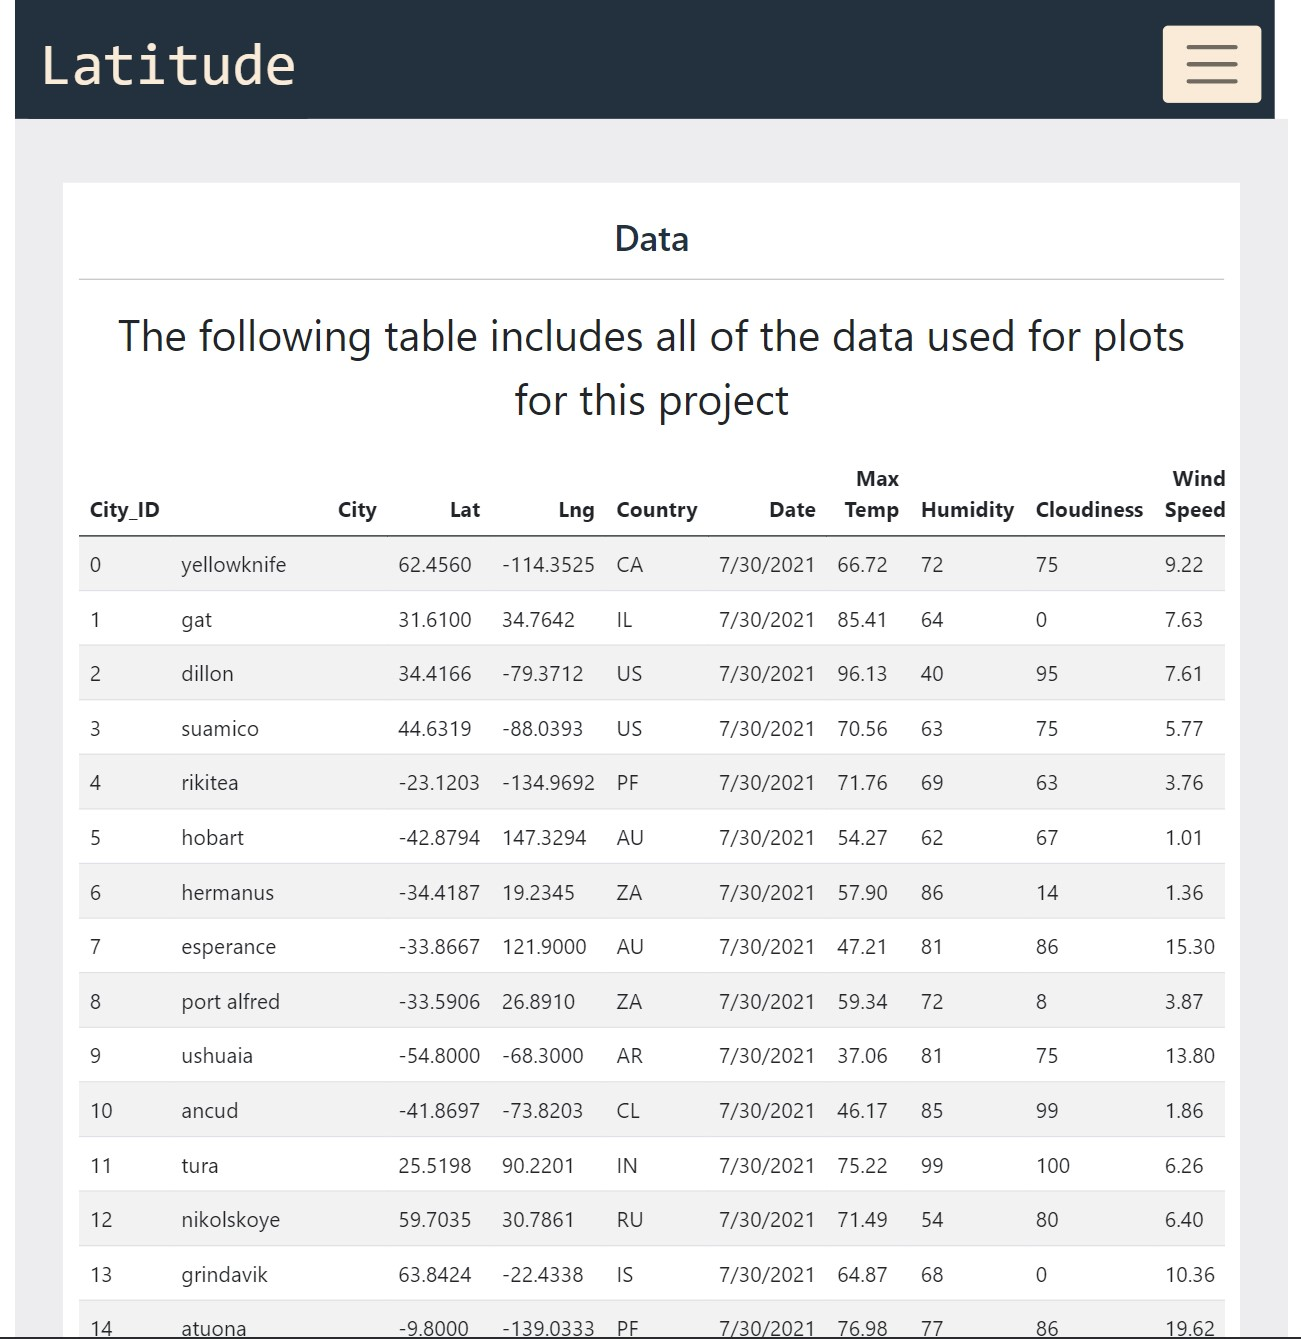
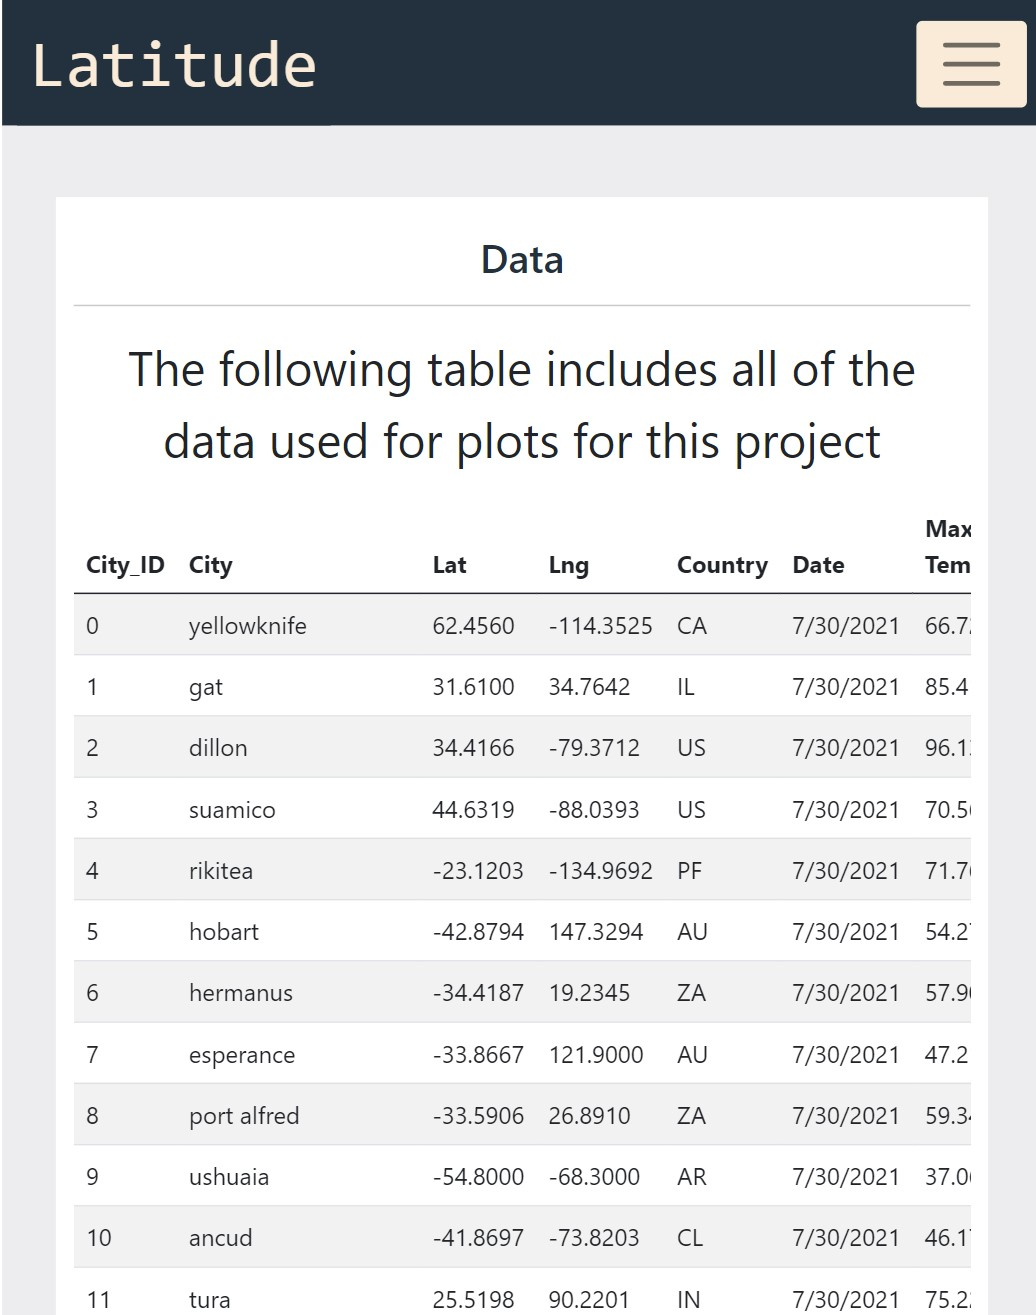
saving readme

diff --git a/WebVisualizations/style.css b/WebVisualizations/style.css
@@ -202,6 +202,12 @@ padding-bottom: 60px;
       font-size: 2rem;
       color: black;
     }
+
+    .navbar_padding{
+      padding-bottom: 0rem;
+      margin-right: 0px;
+    
+    }
   }
 
 @media screen and (min-width: 768px) {    
@@ -250,7 +256,11 @@ padding-bottom: 60px;
       font-size: 2rem;
       color: black;
     }
+    .navbar_padding{
+      padding-bottom: 0rem;
+      margin-right: 0px;
     
+    }
   }
 
 @media (min-width: 992px) {  
@@ -287,6 +297,11 @@ padding-bottom: 60px;
     font-weight:normal;
     font-size: 16px;
   }
+  .navbar_padding{
+    padding-bottom: 0rem;
+    margin-right: 10px;
+  
+  }
 }
 
 @media (min-width: 1200px) {    
@@ -321,6 +336,11 @@ padding-bottom: 60px;
     .nav_link_font_size{
       font-weight:normal;
       font-size: 16px;
+    }
+    .navbar_padding{
+      padding-bottom: 0rem;
+      margin-right: 10px;
+    
     }
   }
 

diff --git a/WebVisualizations/data.html b/WebVisualizations/data.html
@@ -54,7 +54,7 @@
     <div class="table-responsive-md table-responsive-lg">
     <table class="table table-striped">
       <thead>
-        <tr style="text-align: right;">
+        <tr style="text-align: left;">
           <th>City_ID</th>
           <th>City</th>
           <th>Lat</th>
